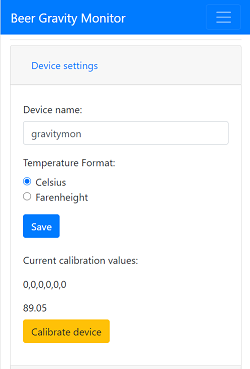
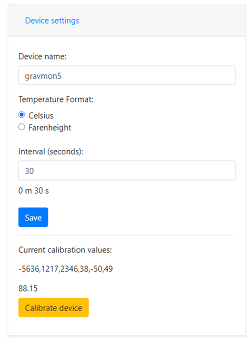
Bug fixes gravitycorr + option to use gyro temp

Changed region(s): [[0.056, 0.1479, 0.56, 0.9467], [0.0, 0.0, 1.0, 0.1183], [0.896, 0.355, 0.924, 0.3846]]

diff --git a/src/webserver.cpp b/src/webserver.cpp
@@ -88,9 +88,12 @@ void webHandleConfig() {
     double temp  = myTempSensor.getValueCelcius();
     double gravity = calculateGravity( angle, temp );
 
-    doc[ CFG_PARAM_ANGLE ]   = reduceFloatPrecision( angle);
-    doc[ CFG_PARAM_GRAVITY ] = reduceFloatPrecision( gravityTemperatureCorrection( gravity, temp ), 4);
-    doc[ CFG_PARAM_BATTERY ] = reduceFloatPrecision( myBatteryVoltage.getVoltage()); 
+    doc[ CFG_PARAM_ANGLE ]      = reduceFloatPrecision( angle);
+    if( myConfig.isGravityTempAdj() )
+        doc[ CFG_PARAM_GRAVITY ] = reduceFloatPrecision( gravityTemperatureCorrection( gravity, temp, myConfig.getTempFormat() ), 4);
+    else
+        doc[ CFG_PARAM_GRAVITY ] = reduceFloatPrecision( gravity, 4);    
+    doc[ CFG_PARAM_BATTERY ]    = reduceFloatPrecision( myBatteryVoltage.getVoltage()); 
 
 #if LOG_LEVEL==6
     serializeJson(doc, Serial);
@@ -224,15 +227,18 @@ void webHandleStatus() {
     double temp  = myTempSensor.getValueCelcius();
     double gravity = calculateGravity( angle, temp );
 
-    doc[ CFG_PARAM_ID ]         = myConfig.getID();
-    doc[ CFG_PARAM_ANGLE ]      = reduceFloatPrecision( angle);
-    doc[ CFG_PARAM_GRAVITY ]    = reduceFloatPrecision( gravityTemperatureCorrection( gravity, temp ), 4);
-    doc[ CFG_PARAM_TEMP_C ]     = reduceFloatPrecision( temp, 1);
-    doc[ CFG_PARAM_TEMP_F ]     = reduceFloatPrecision( myTempSensor.getValueFarenheight(), 1);
-    doc[ CFG_PARAM_BATTERY ]    = reduceFloatPrecision( myBatteryVoltage.getVoltage()); 
-    doc[ CFG_PARAM_TEMPFORMAT ] = String( myConfig.getTempFormat() ); 
-    doc[ CFG_PARAM_SLEEP_MODE ] = sleepModeAlwaysSkip; 
-    doc[ CFG_PARAM_RSSI ]       = WiFi.RSSI(); 
+    doc[ CFG_PARAM_ID ]             = myConfig.getID();
+    doc[ CFG_PARAM_ANGLE ]          = reduceFloatPrecision( angle);
+    if( myConfig.isGravityTempAdj() )
+        doc[ CFG_PARAM_GRAVITY ]    = reduceFloatPrecision( gravityTemperatureCorrection( gravity, temp, myConfig.getTempFormat() ), 4);
+    else
+        doc[ CFG_PARAM_GRAVITY ]    = reduceFloatPrecision( gravity, 4);
+    doc[ CFG_PARAM_TEMP_C ]         = reduceFloatPrecision( temp, 1);
+    doc[ CFG_PARAM_TEMP_F ]         = reduceFloatPrecision( myTempSensor.getValueFarenheight(), 1);
+    doc[ CFG_PARAM_BATTERY ]        = reduceFloatPrecision( myBatteryVoltage.getVoltage()); 
+    doc[ CFG_PARAM_TEMPFORMAT ]     = String( myConfig.getTempFormat() ); 
+    doc[ CFG_PARAM_SLEEP_MODE ]     = sleepModeAlwaysSkip; 
+    doc[ CFG_PARAM_RSSI ]           = WiFi.RSSI(); 
 #if LOG_LEVEL==6
     serializeJson(doc, Serial);
     Serial.print( CR );

diff --git a/src/tempsensor.cpp b/src/tempsensor.cpp
@@ -24,6 +24,7 @@ SOFTWARE.
 #include "tempsensor.h"
 #include "helper.h"
 #include "config.h"
+#include "gyro.h"
 #include <onewire.h>
 #include <DallasTemperature.h>
 #include <Wire.h>
@@ -35,11 +36,13 @@ float convertCtoF( float t ) {
     return (t * 1.8 ) + 32.0; 
 }
 
+#if !defined( USE_GYRO_TEMP )
 OneWire myOneWire(D6);
 DallasTemperature mySensors(&myOneWire);
-TempSensor myTempSensor;
-
 #define TEMPERATURE_PRECISION 9
+#endif
+
+TempSensor myTempSensor;
 
 //
 // Setup temp sensors
@@ -51,6 +54,10 @@ void TempSensor::setup() {
     return;
 #endif
 
+#if defined( USE_GYRO_TEMP )
+    Log.notice(F("TSEN: Using temperature from gyro." CR));
+#else
+    // This code is used to read the DS18 temp sensor
     if( mySensors.getDS18Count() )
         return;
 
@@ -63,6 +70,7 @@ void TempSensor::setup() {
         Log.notice(F("TSEN: Found %d sensors." CR), mySensors.getDS18Count());
         mySensors.setResolution(TEMPERATURE_PRECISION);
     }
+#endif 
 
     float t = myConfig.getTempSensorAdj();
 
@@ -81,19 +89,29 @@ void TempSensor::setup() {
 }
 
 //
-// Retrieving value from sensor
+// Retrieving value from sensor, value is in Celcius
 //
 float TempSensor::getValue() {
-    float c = 0;
-
 #if defined( SIMULATE_TEMP )
     return 21;
 #endif
 
+#if defined( USE_GYRO_TEMP )
+    //LOG_PERF_START("temp-get");
+    float c = myGyro.getSensorTempC();
+    //LOG_PERF_STOP("temp-get");
+    hasSensor = true;
+    return c;
+#if LOG_LEVEL==6
+    Log.verbose(F("TSEN: Reciving temp value for gyro sensor %F C." CR), c);
+#endif
+#else
     // Read the sensors
     //LOG_PERF_START("temp-request");
     mySensors.requestTemperatures();
     //LOG_PERF_STOP("temp-request");
+
+    float c = 0;
 
     if( mySensors.getDS18Count() >= 1) {
         //LOG_PERF_START("temp-get");
@@ -107,6 +125,7 @@ float TempSensor::getValue() {
     }
 
     return c;
+#endif
 }
 
 // EOF 

diff --git a/src/config.h b/src/config.h
@@ -48,10 +48,10 @@ SOFTWARE.
 #define CFG_PARAM_PUSH_BREWFATHER       "brewfather-push"               // URL (brewfather format)
 #define CFG_PARAM_PUSH_HTTP             "http-push"                     // URL (iSpindle format)
 #define CFG_PARAM_PUSH_HTTP2            "http-push2"                    // URL (iSpindle format)
-#define CFG_PARAM_PUSH_INFLUXDB2        "influxdb2-push"                // URL (iSpindle format)
-#define CFG_PARAM_PUSH_INFLUXDB2_ORG    "influxdb2-org"                 // URL (iSpindle format)
-#define CFG_PARAM_PUSH_INFLUXDB2_BUCKET "influxdb2-bucket"              // URL (iSpindle format)
-#define CFG_PARAM_PUSH_INFLUXDB2_AUTH   "influxdb2-auth"                // URL (iSpindle format)
+#define CFG_PARAM_PUSH_INFLUXDB2        "influxdb2-push"                // URL 
+#define CFG_PARAM_PUSH_INFLUXDB2_ORG    "influxdb2-org"                 // URL 
+#define CFG_PARAM_PUSH_INFLUXDB2_BUCKET "influxdb2-bucket"              // URL 
+#define CFG_PARAM_PUSH_INFLUXDB2_AUTH   "influxdb2-auth"                // URL 
 #define CFG_PARAM_SLEEP_INTERVAL        "sleep-interval"                // Sleep interval 
 // TODO: @deprecated setting
 #define CFG_PARAM_PUSH_INTERVAL         "push-interval"                 // Time between push 

diff --git a/src/calc.cpp b/src/calc.cpp
@@ -64,17 +64,18 @@ double calculateGravity( double angle, double temp ) {
 //
 // Do a standard gravity temperature correction. This is a simple way to adjust for differnt worth temperatures
 //
-double gravityTemperatureCorrection( double gravity, double temp, double calTemp) {
+double gravityTemperatureCorrection( double gravity, double temp, char tempFormat, double calTemp) {
 #if LOG_LEVEL==6
     Log.verbose(F("CALC: Adjusting gravity based on temperature, gravity %F, temp %F, calTemp %F." CR), gravity, temp, calTemp);
 #endif
 
-    double tempF = convertCtoF( temp );
-    double calTempF = convertCtoF(calTemp); 
+    if( tempFormat == 'C')
+        temp = convertCtoF( temp );
+    double calTempF = convertCtoF(calTemp);     // calTemp is in C
     const char* formula = "gravity*((1.00130346-0.000134722124*temp+0.00000204052596*temp^2-0.00000000232820948*temp^3)/(1.00130346-0.000134722124*cal+0.00000204052596*cal^2-0.00000000232820948*cal^3))";
 
     // Store variable names and pointers.
-    te_variable vars[] = {{"gravity", &gravity}, {"temp", &tempF}, {"cal", &calTempF}};
+    te_variable vars[] = {{"gravity", &gravity}, {"temp", &temp}, {"cal", &calTempF}};
 
     int err;
     // Compile the expression with variables.

diff --git a/src/main.cpp b/src/main.cpp
@@ -197,7 +197,7 @@ void loop() {
 #endif   
             if( myConfig.isGravityTempAdj() ) {
                 LOG_PERF_START("loop-gravity-corr");
-                gravity = gravityTemperatureCorrection( gravity, temp);       // Use default correction temperature of 20C
+                gravity = gravityTemperatureCorrection( gravity, temp, myConfig.getTempFormat() ); // Use default correction temperature of 20C
                 LOG_PERF_STOP("loop-gravity-corr");
 #if LOG_LEVEL==6
                 Log.verbose(F("Main: Temp adjusted gravity=%F." CR), gravity );

diff --git a/src/gyro.h b/src/gyro.h
@@ -67,7 +67,7 @@ class GyroSensor {
         void calibrateSensor();
 
         double getAngle() { return angle; };
-        double getSensorTempC() { return sensorTemp; };
+        float  getSensorTempC() { return sensorTemp; };
         bool   isConnected() { return sensorConnected; };
         bool   hasValue() { return validValue; };
         void   enterSleep();

diff --git a/src/calc.h b/src/calc.h
@@ -29,7 +29,7 @@ SOFTWARE.
 
 // Functions
 double calculateGravity( double angle, double temp );
-double gravityTemperatureCorrection( double gravity, double temp, double calTemp = 20 );
+double gravityTemperatureCorrection( double gravity, double temp, char tempFormat, double calTemp = 20 );
 
 #endif // _CALC_H
 

diff --git a/src/helper.cpp b/src/helper.cpp
@@ -52,6 +52,9 @@ void printBuildOptions() {
 #ifdef SKIP_SLEEPMODE
                 "SKIP_SLEEP "
 #endif
+#ifdef USE_GYRO_TEMP
+                "GYRO_TEMP "
+#endif
 #ifdef EMBED_HTML
                 "EMBED_HTML "
 #endif    

diff --git a/README.md b/README.md
@@ -2,7 +2,7 @@
 
 I started this project out of curiosity for how a motion sensor is working and since I like to brew beer this was the result. This software can be used with iSpindle hardware and utilizes the same hardware configuration. No code has been reused from the iSpindle project. 
 
-### TODO
+## TODO
 
 * Add support for Plato in device (today it assumes that formula is in SG). 
 * Add support for converting between SG/Plato in device.
@@ -11,25 +11,25 @@ I started this project out of curiosity for how a motion sensor is working and s
 * Add support for https web server (will require certificates to be created as part of build process)
 * Add iSpindle 3D print cradle + small PCB (what I use for my builds)
 * Validate max sleep time to 70 min (max time for ESP)
-* Check how much movement there is during fermentack (check run time) if we should go into sleep mode for a shorter time...
+* Validate the power consumption of the device using amp meter (integrated and/or separate)
+* Add option to use temperature readings from motion sensor (longer battery life)
+* Testing, Testing and more testing......
 
 # Functionallity
 
-I have made a few differnt design decision compared to the standard iSpindle software. 
+I have made a few different design decision compared to the standard iSpindle software. 
 
-* All configuration options have been moved to a web gui and is accesible without using the double reset function. You only need to use this for changing the WIFI configuration. The web gui can be accessed when either the device is laying flat on a surface (90 degress) or it's beeing charged. The benefits is that it's easier to change settings and also read the angle/tilt when doing calibration. You can also change the forumla and directly see the new calculated result. 
+* The device operate in two modes, __always-on__ or __deep-sleep__. Always on can be triggered in two ways: Connected to charger and the power is over 4.1V or the device is lying flat (angle is approx 90 degrees). 
 
-* The software also has built in OTA support so new versions can be downloaded from a local webserver (when connected to power)
+* Configuration options have been moved to a web gui and is accesible when the device is in __always-on__ mode. The Wifi portal only need to be used for changing WIFI network. 
 
-* Temperature calibration of DS18B20 sensor so you can adjust the temperature sensor readings.
+* The software also has built in OTA support so new versions can be downloaded from a local webserver and checks are done during startup and the device is in __always-on__ mode.
 
-* Automatic temperature gravity calculation to adjust for a lower temperature in the fermentation vessels. Useful if you are fermenting at lower temperatures. It's possible to build this into the normal gravity formula but this is an easier option. Just make sure that the calibration is done at 20°C.
+* Temperature calibration has been added for the DS18B20 sensor so you can adjust the temperature sensor readings if there is a need. When the device is in __always-on__ mode the temperature will rise in the container so the value will increase and not reflect the temperature for the surronding the container.
 
-* The software will read the motion sensor 50 times and use the average to calculate the angle. If the readings show that the device is moving it will wait a few seconds and retry the operation again to make sure that no invalid angles should be reported. The downside is that the device will remain running if it's moving and draw more power. For normal fermentation this should not be an issue.
+* There is an option to automatically correct the gravity calculation based on the temperature. Useful if you are fermenting at lower temperatures. It's possible to build this into the normal gravity formula but this is an easier option. Just make sure that the calibration is done at 20°C.
 
-## Integrations / Sending data 
-
-In this version the software supports sending data to standad HTTP endpoint and Brewfather. These are the ones I use so more can be added on request. 
+* The software will read the motion sensor 50 times and use the average to calculate the angle. If the readings show that the device is moving it will wait a few seconds and retry the operation again to make sure that no invalid angles should be reported. If the device is unsuccesful to get a valid angle within 10s it will go to sleep for 60s and then retry again (TODO: This will be adjusted after more testing).
 
 ## Configuration 
 
@@ -39,7 +39,7 @@ Configuration is accessed by entering the URL for the device, this will be the m
 
 http://gravmon.local/
 
-The main page shows the device readings; gravity, angle, temperature and battery charge. If the checkbox is active then the device will never go into sleep mode. This is useful if you are collecting angle/tilt for calibration. If this is unchecked the device will go into sleep mode and the web UI is no longer accesible. 
+The main page shows the device readings; gravity, angle, temperature and battery charge. If the checkbox is active then the device will never go into sleep mode. This is useful if you are collecting angle/tilt for calibration. If this is unchecked the device will change mode as explained before.
 
 ![Status](img/index.png)
 
@@ -55,15 +55,13 @@ The device page shows the device settings and software versions.
 
 http://gravmon.local/config.htm
 
-This page is divided into several categories of settings. The first one contains device settings, mDNS name, temperature format, and gyro calibration data. The interval setting is the amount of time the device will be in sleep mode between readings (interval is in seconds).
+* This page is divided into several categories of settings. The first one contains device settings, mDNS name, temperature format, sleep interval and gyro calibration data. The interval setting is the amount of time the device will be in sleep mode between readings (interval is in seconds). To simplify this you can also see the conversion to minutes / seconds next to the input field.
 
-Calibration needs to be done or the device will not work correctly. Place the device flat on a surface with gyro up and press the calibrate button when it's stable. 
-
-__TODO: Update image for config settings.__
+* Calibration needs to be done or the device will not work correctly. Place the device flat on a surface with gyro up and press the calibrate button when it's stable. If no calibration data exist the device will not enter sleep-mode.
 
 ![Config - Device](img/config1.png)
 
-The second section contains the push settings, two URL's for http posts, Brewfather and settings for InfluxDB v2. 
+* The second section contains the push settings, two URL's for http posts, Brewfather and settings for InfluxDB v2. 
 
 ### This is the format used for standard http posts. 
 ```
@@ -100,18 +98,19 @@ The second section contains the push settings, two URL's for http posts, Brewfat
 ```
 measurement,host=<mdns>,device=<id>,temp-format=<C|F>,gravity-format=SG gravity=1.0004,angle=45.45,temp=20.1,battery=3.96,rssi=-18
 ```
-
-__TODO: Update image for push settings.__
-
 ![Config - Push](img/config2.png)
 
-The third section contains the gravity options, formlua and option for temperature correcting gravity.
+* The third section contains the gravity formula and also option for doing temperature compensation. The calibration formula uses two keywords, temp and tilt. Temperature is in the selected device format. 
 
 * Gravity formula is compatible with standard iSpindle formulas so any existing calculation option can be used. I use the tool fermentrack for controlling my fermentation and I use this tool for calculating gravity. The formula can handle two keywords, __tilt__ and __temp__. This is an example of a formula; __0.00145*tilt^3+0.1445*tilt^2+0.00179*tilt+0.9436__ 
 
-![Config - Gravity](img/config3.png)
+* This is the formula used for temperature calibration (temp is in F). Cal = 20C.
+```
+gravity*((1.00130346-0.000134722124*temp+0.00000204052596*temp^2-0.00000000232820948*temp^3)/(1.00130346-0.000134722124*cal+0.00000204052596*cal^2-0.00000000232820948*cal^3))
+```
+![Config - gravity](img/config3.png)
 
-The fouth section contains the hardware options, voltage factor for calculating the battery charge, temperature sensor adjustment and OTA base URL.  
+* Hardware settings contain settings for temperature sensor adjustment, voltage factor (to calulate the battery level) and OTA URL.
 
 * For the OTA to work, place the following files (version.json + firmware.bin) at the location that you pointed out in OTA URL. If the version number in the json file is newer than in the code the update will be done during startup.
 
@@ -129,7 +128,7 @@ Contents version.json
 
 # Building a device
 
-Not yet complete.
+See the iSpindle documentation for building a device. 
 
 # Compiling the software
 
@@ -142,3 +141,5 @@ You can set the SSID and PWD as presets through platformio.ini by adding the set
 -D USER_SSID=\""\""           // =\""myssid\""
 -D USER_SSID_PWD=\""\""       // =\""mypwd\""
 ```
+
+There are more options in teh platform.ini file that enable/disable additional functions for logging level, pushing performance data to InfluxDB and more. If i get the time I will add some documentation around these. 
